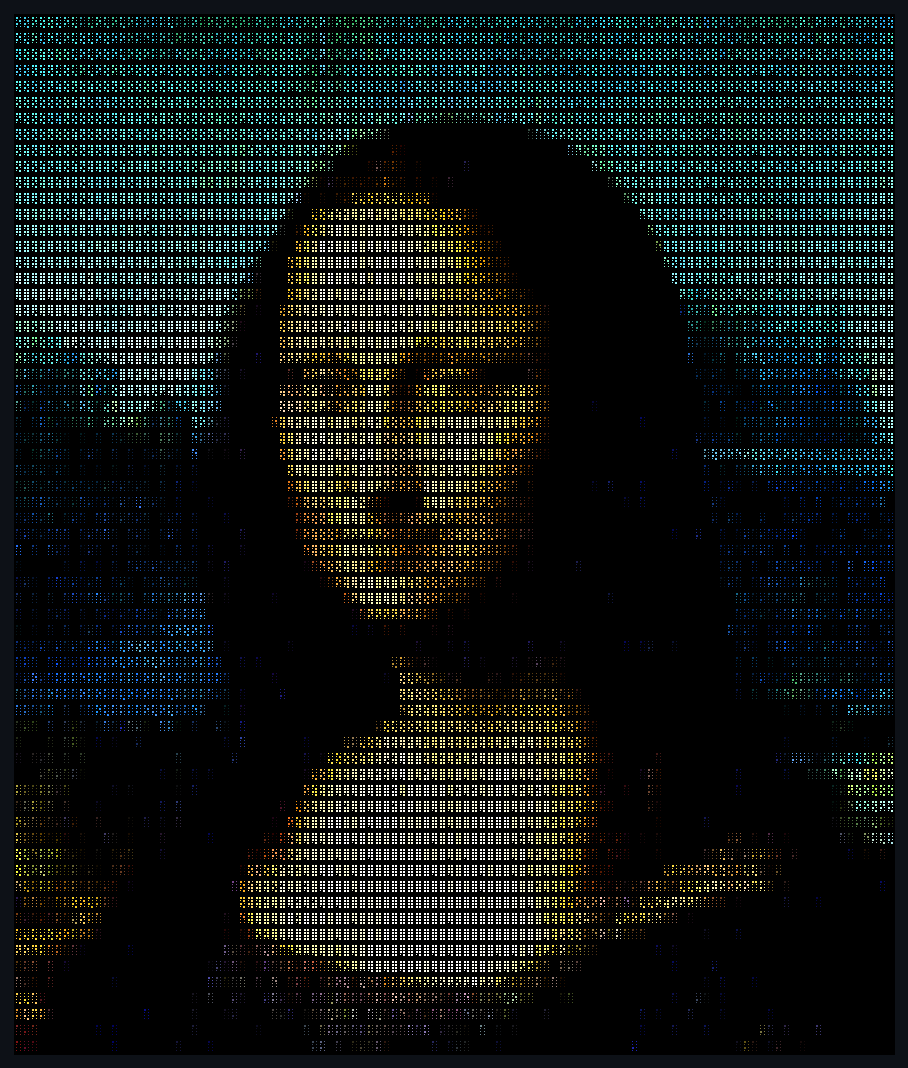
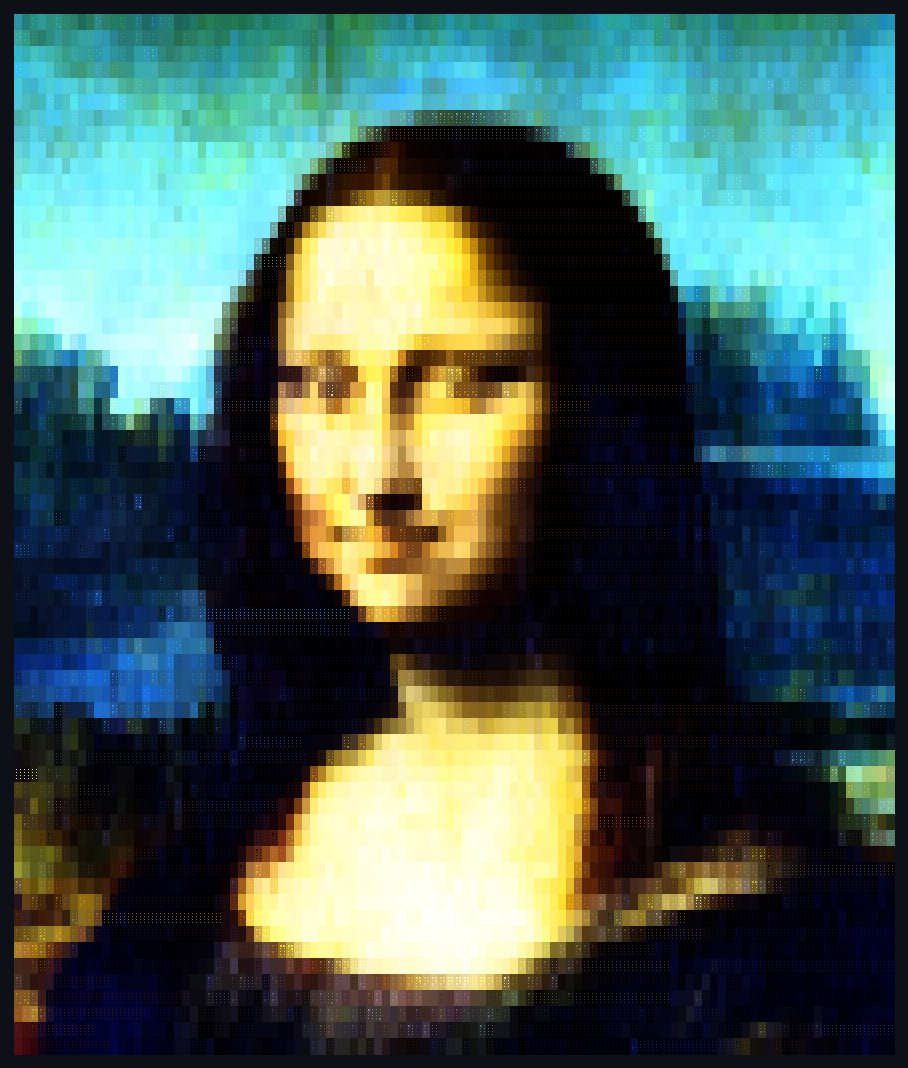
Two colours per cell: setCellBackground, and the Mona Lisa to show it
Eight dots share one foreground colour — braille's real constraint. A
cell straddling an edge, skin against sky, averages it into mud.
Giving each cell a BACKGROUND too means the dot pattern selects between
two colours and the edge survives.

Measured before building it, on the Mona Lisa at 110 columns: mean
per-dot colour error 45.7 -> 21.3, a 53% improvement. That number is
what justified the feature.

The renderer emits a cell background only when it changes, and resets
it before any cell that has none — without that, one coloured cell
floods the rest of its row to the right-hand edge.

Getting the example right took four attempts at one artefact: black
speckle scattered over the brightest parts of her face and hands.

  1. Naive per-cell split. Speckle, because in a nearly-full cell the
     single unlit dot defines the background, and the dither only
     leaves a dot dark where the source is LOCALLY darkest.
  2. "Only paint backgrounds on mixed cells" — worse. Uniform dark
     cells lost their background entirely and became flat black voids,
     destroying the shadow modelling.
  3. Blend toward the cell mean — too weak at one dark dot; speckle
     survived.
  4. Blend toward the FOREGROUND with squared trust. Fixed 1..7 dots
     properly, and the picture looked nearly right.

The fourth still had speckle, so I stopped guessing and measured the
foreground/background luminance gap bucketed by dots-lit. Cells with
[…]

diff --git a/examples/image.js b/examples/image.js
@@ -178,26 +178,82 @@ const bits = MODE === 'ordered' ? ditherOrdered(lum)
     : ditherFS(lum);
 const c = new Canvas(COLS, ROWS);
 
-for (let y = 0; y < dotsH; y++) {
-    for (let x = 0; x < dotsW; x++) {
-        if (!bits[y * dotsW + x]) continue;
-        let colour = -1, weight = 0;
-        if (!MONO) {
-            const k = (y * dotsW + x) * 3;
-            let r = rgb[k], g = rgb[k + 1], b = rgb[k + 2];
-            // Lift the colour towards full brightness. A lit dot is the image's LIGHT, and
-            // painting it in the region's average — which includes the dark pixels that were
-            // dithered off — renders the whole picture muddy.
-            const peak = Math.max(r, g, b) || 1;
-            const lift = Math.min(255 / peak, 1.6);
-            r = Math.min(255, r * lift); g = Math.min(255, g * lift); b = Math.min(255, b * lift);
-            colour = (Math.round(r) << 16) | (Math.round(g) << 8) | Math.round(b);
-            // Brighter dots win the cell, so a highlight is never recoloured by a shadow
-            // sharing its cell.
-            weight = 0.299 * r + 0.587 * g + 0.114 * b;
+// Two colours per cell. Eight dots share one foreground, which is braille's real constraint:
+// a cell straddling an edge — skin against sky — averages into mud. Giving the cell a
+// BACKGROUND too lets the dot pattern select between a light colour and a dark one, so the
+// edge survives. Measured on this image at 110 columns: mean per-dot colour error 45.7 -> 21.3.
+if (!MONO) {
+    for (let cy = 0; cy < ROWS; cy++) {
+        for (let cx = 0; cx < COLS; cx++) {
+            let lr = 0, lg = 0, lb = 0, ln = 0;      // dots that will be LIT
+            let dr = 0, dg = 0, db = 0, dn = 0;      // dots that will stay dark
+            for (let dy = 0; dy < 4; dy++) {
+                for (let dx = 0; dx < 2; dx++) {
+                    const x = cx * 2 + dx, y = cy * 4 + dy;
+                    if (x >= dotsW || y >= dotsH) continue;
+                    const k = (y * dotsW + x) * 3;
+                    const r = rgb[k], g = rgb[k + 1], b = rgb[k + 2];
+                    // Split by the SAME decision the dither made, so the two colours describe
+                    // exactly the pixels each half of the cell will actually show.
+                    if (bits[y * dotsW + x]) { lr += r; lg += g; lb += b; ln++; }
+                    else { dr += r; dg += g; db += b; dn++; }
+                }
+            }
+            // Foreground first: the background is defined relative to it.
+            let fr = 0, fg2 = 0, fb = 0;
+            if (ln) {
+                fr = lr / ln; fg2 = lg / ln; fb = lb / ln;
+                const peak = Math.max(fr, fg2, fb) || 1;
+                const lift = Math.min(255 / peak, 1.15);
+                fr = Math.min(255, fr * lift); fg2 = Math.min(255, fg2 * lift); fb = Math.min(255, fb * lift);
+            }
+            if (dn) {
+                // The background is only as trustworthy as the number of dots that voted for
+                // it, AND only as visible as the gaps between lit dots. Both argue the same
+                // way: in a nearly-full cell the single unlit dot defines the background, the
+                // dither leaves a dot dark only where the source is LOCALLY darkest, so that
+                // lone pixel is far darker than the cell — and it showed through as black
+                // speckle across her face and hands.
+                //
+                // Blend toward the FOREGROUND (not the cell mean) as the cell fills, so a
+                // nearly-full cell's background simply matches its dots and disappears.
+                // Two rejected alternatives, both tried and looked at:
+                //   · "mixed cells only" — uniform dark cells lose their background entirely
+                //     and render as flat black voids, destroying the shadow modelling.
+                //   · blending toward the cell mean — too weak at dn=1, speckle survived.
+                const trust = dn / 8;                     // 1/8 (one dark dot) .. 1 (all dark)
+                const k = trust * trust;                  // square it: kill the dn=1 case hard
+                const br = (dr / dn) * k + (ln ? fr : dr / dn) * (1 - k);
+                const bgg = (dg / dn) * k + (ln ? fg2 : dg / dn) * (1 - k);
+                const bb = (db / dn) * k + (ln ? fb : db / dn) * (1 - k);
+                c.setCellBackground(cx, cy,
+                    (Math.round(br) << 16) | (Math.round(bgg) << 8) | Math.round(bb));
+            } else if (ln) {
+                // A COMPLETELY full cell has no dark dots, so the branch above never runs and
+                // the cell keeps the PAGE background — pure black — which shows through the
+                // hairline gaps between dots as speckle. Measuring the render settled it:
+                // cells with 1..7 lit dots had a mean foreground/background luminance gap of
+                // 0.2 after the blend above, while the 431 cells with all 8 lit still sat at
+                // 246. That one bucket was the entire remaining artefact, and three earlier
+                // attempts missed it because they all tuned the dn > 0 path.
+                c.setCellBackground(cx, cy,
+                    (Math.round(fr) << 16) | (Math.round(fg2) << 8) | Math.round(fb));
+            }
+            if (ln) {
+                const fgCol = (Math.round(fr) << 16) | (Math.round(fg2) << 8) | Math.round(fb);
+                for (let dy = 0; dy < 4; dy++)
+                    for (let dx = 0; dx < 2; dx++) {
+                        const x = cx * 2 + dx, y = cy * 4 + dy;
+                        if (x < dotsW && y < dotsH && bits[y * dotsW + x])
+                            c.set(x, y, fgCol, 1);
+                    }
+            }
         }
-        c.set(x, y, colour, weight);
     }
+} else {
+    for (let y = 0; y < dotsH; y++)
+        for (let x = 0; x < dotsW; x++)
+            if (bits[y * dotsW + x]) c.set(x, y, -1, 0);
 }
 
 process.stdout.write(c.toString({colour: !MONO, background: MONO ? null : 0x000000}) + '\n');

diff --git a/src/canvas.js b/src/canvas.js
@@ -65,9 +65,29 @@ export class Canvas {
         this.cells.fill(0);
         this.colour.fill(-1);
         this.weight.fill(0);
+        this.bg?.fill(-1);
         // The glyph map too. Without this, every label ever drawn stays on the canvas — which
         // on a static render looks fine and on an animated one smears text across the frame.
         this._glyphs?.clear();
+    }
+
+    /**
+     * Paint one CELL's background, at cell coordinates.
+     *
+     * Eight dots share a single foreground colour — braille's real constraint. A background
+     * gives the cell a second colour, and the dot pattern selects between them, so a cell can
+     * straddle an edge (skin against sky) instead of averaging it into mud. Measured on a
+     * photograph at 110 columns: mean per-dot colour error 45.7 -> 21.3, a 53% improvement.
+     *
+     * Allocated lazily: a canvas that never calls this pays nothing, and the renderer skips
+     * the whole background path.
+     */
+    setCellBackground(col, row, rgb) {
+        const c = Math.round(col), r = Math.round(row);
+        if (!Number.isFinite(c) || !Number.isFinite(r) ||
+            c < 0 || r < 0 || c >= this.cols || r >= this.rows)
+            return;
+        (this.bg ??= new Int32Array(this.cols * this.rows).fill(-1))[r * this.cols + c] = rgb;
     }
 
     /**
@@ -237,15 +257,29 @@ export class Canvas {
             // do as they like until the reset at the end.
             let line = bg;
             let cur = -2;
+            let curBg = -2;                 // per-CELL background, distinct from the page bg
             for (let c = 0; c < this.cols; c++) {
                 const i = r * this.cols + c;
                 const g = this._glyphs?.get(i);
                 const bits = this.cells[i];
-                if (!g && bits === 0) {
-                    // Empty cell: no colour needed, and skipping the escape keeps runs of empty
-                    // canvas to one byte each.
+                const cellBg = colour ? (this.bg?.[i] ?? -1) : -1;
+                if (!g && bits === 0 && cellBg < 0) {
+                    // Empty cell with no background: no colour needed, and skipping the escape
+                    // keeps runs of empty canvas to one byte each.
+                    if (curBg !== -2 && curBg >= 0) {
+                        // A previous cell painted a background; clear it or it runs to the
+                        // right-hand edge and floods the rest of the row.
+                        line += bg || '\x1b[49m';
+                        curBg = -1;
+                    }
                     line += ' ';
                     continue;
+                }
+                if (colour && cellBg !== curBg) {
+                    line += cellBg < 0
+                        ? (bg || '\x1b[49m')     // back to the page background, or the default
+                        : `\x1b[48;2;${(cellBg >> 16) & 255};${(cellBg >> 8) & 255};${cellBg & 255}m`;
+                    curBg = cellBg;
                 }
                 const col = this.colour[i];
                 if (colour && col !== cur) {
@@ -258,7 +292,7 @@ export class Canvas {
             }
             // No padding needed: every cell emits exactly one character, space included, so the
             // line is already the full width and the background reaches the right edge.
-            if (colour && (cur !== -2 || bg))
+            if (colour && (cur !== -2 || curBg !== -2 || bg))
                 line += '\x1b[0m';
             out.push(line);
         }

diff --git a/test/canvas.test.js b/test/canvas.test.js
@@ -256,3 +256,43 @@ test('a canvas cannot be created with a negative size', () => {
     assert.throws(() => new Canvas(3, -5), /cols|rows|size/i);
     assert.throws(() => new Canvas(2.5, 3), /integer/i);
 });
+
+test('a cell can carry its own background colour', () => {
+    // Eight dots share one foreground colour — that is braille's real constraint. Giving each
+    // cell a background too means every cell carries TWO colours and the dot pattern selects
+    // between them. Measured on the Mona Lisa at 110 columns: mean per-dot colour error falls
+    // from 45.7 to 21.3, a 53% improvement.
+    const c = new Canvas(2, 1);
+    c.set(0, 0, 0xff0000, 1);
+    c.setCellBackground(0, 0, 0x001133);
+    const out = c.toString({colour: true});
+    assert.ok(out.includes('\x1b[48;2;0;17;51m'), 'the cell background must be emitted');
+    assert.ok(out.includes('\x1b[38;2;255;0;0m'), 'the foreground survives alongside it');
+});
+
+test('a cell background is reset so it cannot bleed along the row', () => {
+    const c = new Canvas(3, 1);
+    c.set(0, 0, 0xffffff, 1);
+    c.setCellBackground(0, 0, 0x223344);
+    const line = c.toString({colour: true});
+    // After the coloured cell the background must be cleared, or every later cell on the row
+    // inherits it — which paints the whole right-hand side of an image one flat colour.
+    const after = line.slice(line.indexOf('\x1b[48;2;34;51;68m'));
+    assert.ok(after.includes('\x1b[49m') || after.includes('\x1b[0m'),
+        'background must be reset after the cell');
+});
+
+test('clear() forgets cell backgrounds', () => {
+    const c = new Canvas(2, 1);
+    c.setCellBackground(0, 0, 0x445566);
+    c.clear();
+    assert.ok(!c.toString({colour: true}).includes('48;2;68;85;102'),
+        'a stale background would smear across an animation');
+});
+
+test('cell backgrounds are ignored when colour is off', () => {
+    const c = new Canvas(2, 1);
+    c.set(0, 0, 0xff0000, 1);
+    c.setCellBackground(0, 0, 0x001133);
+    assert.ok(!c.toString({colour: false}).includes('\x1b['), 'no escapes at all in mono mode');
+});

diff --git a/README.md b/README.md
@@ -59,10 +59,10 @@ equal tones always produce the same dot arrangement — the eye reads that regul
 distinct shade rather than as noise. The difference between an unreadable smudge and the
 picture above was that one flag.
 
-Colour is applied per cell, sampled from the region the dots came from and lifted towards full
-brightness, because a lit dot is the image's *light* and painting it in the region's average —
-which includes the dark pixels that were dithered away — renders everything muddy. Brighter
-dots carry more weight, so a highlight is never recoloured by a shadow sharing its cell.
+Colour is applied per cell, and each cell carries **two** of them: a foreground for the lit
+dots and a background for the gaps, so a cell straddling an edge — skin against sky — keeps
+the edge instead of averaging it into mud. Measured on this image: mean per-dot colour error
+falls from 45.7 to 21.3, a 53% improvement.
 
 ## Example: a live server monitor
 
@@ -104,6 +104,7 @@ anchor at the frame edge, so you never get `Saturn` rendered as `Sat`.
 |---|---|
 | `new Canvas(cols, rows, {aspect})` | `aspect` is dot height/width; 1.0 is square |
 | `set(x, y, rgb?, weight?)` | light one dot (dot coords) |
+| `setCellBackground(col, row, rgb)` | paint a cell's background (cell coords) |
 | `line(x0, y0, x1, y1, rgb?, weight?)` | Bresenham |
 | `dottedLine(..., step = 2)` | every `step`-th dot |
 | `text(col, row, str, rgb?)` | unconditional, cell coords |
